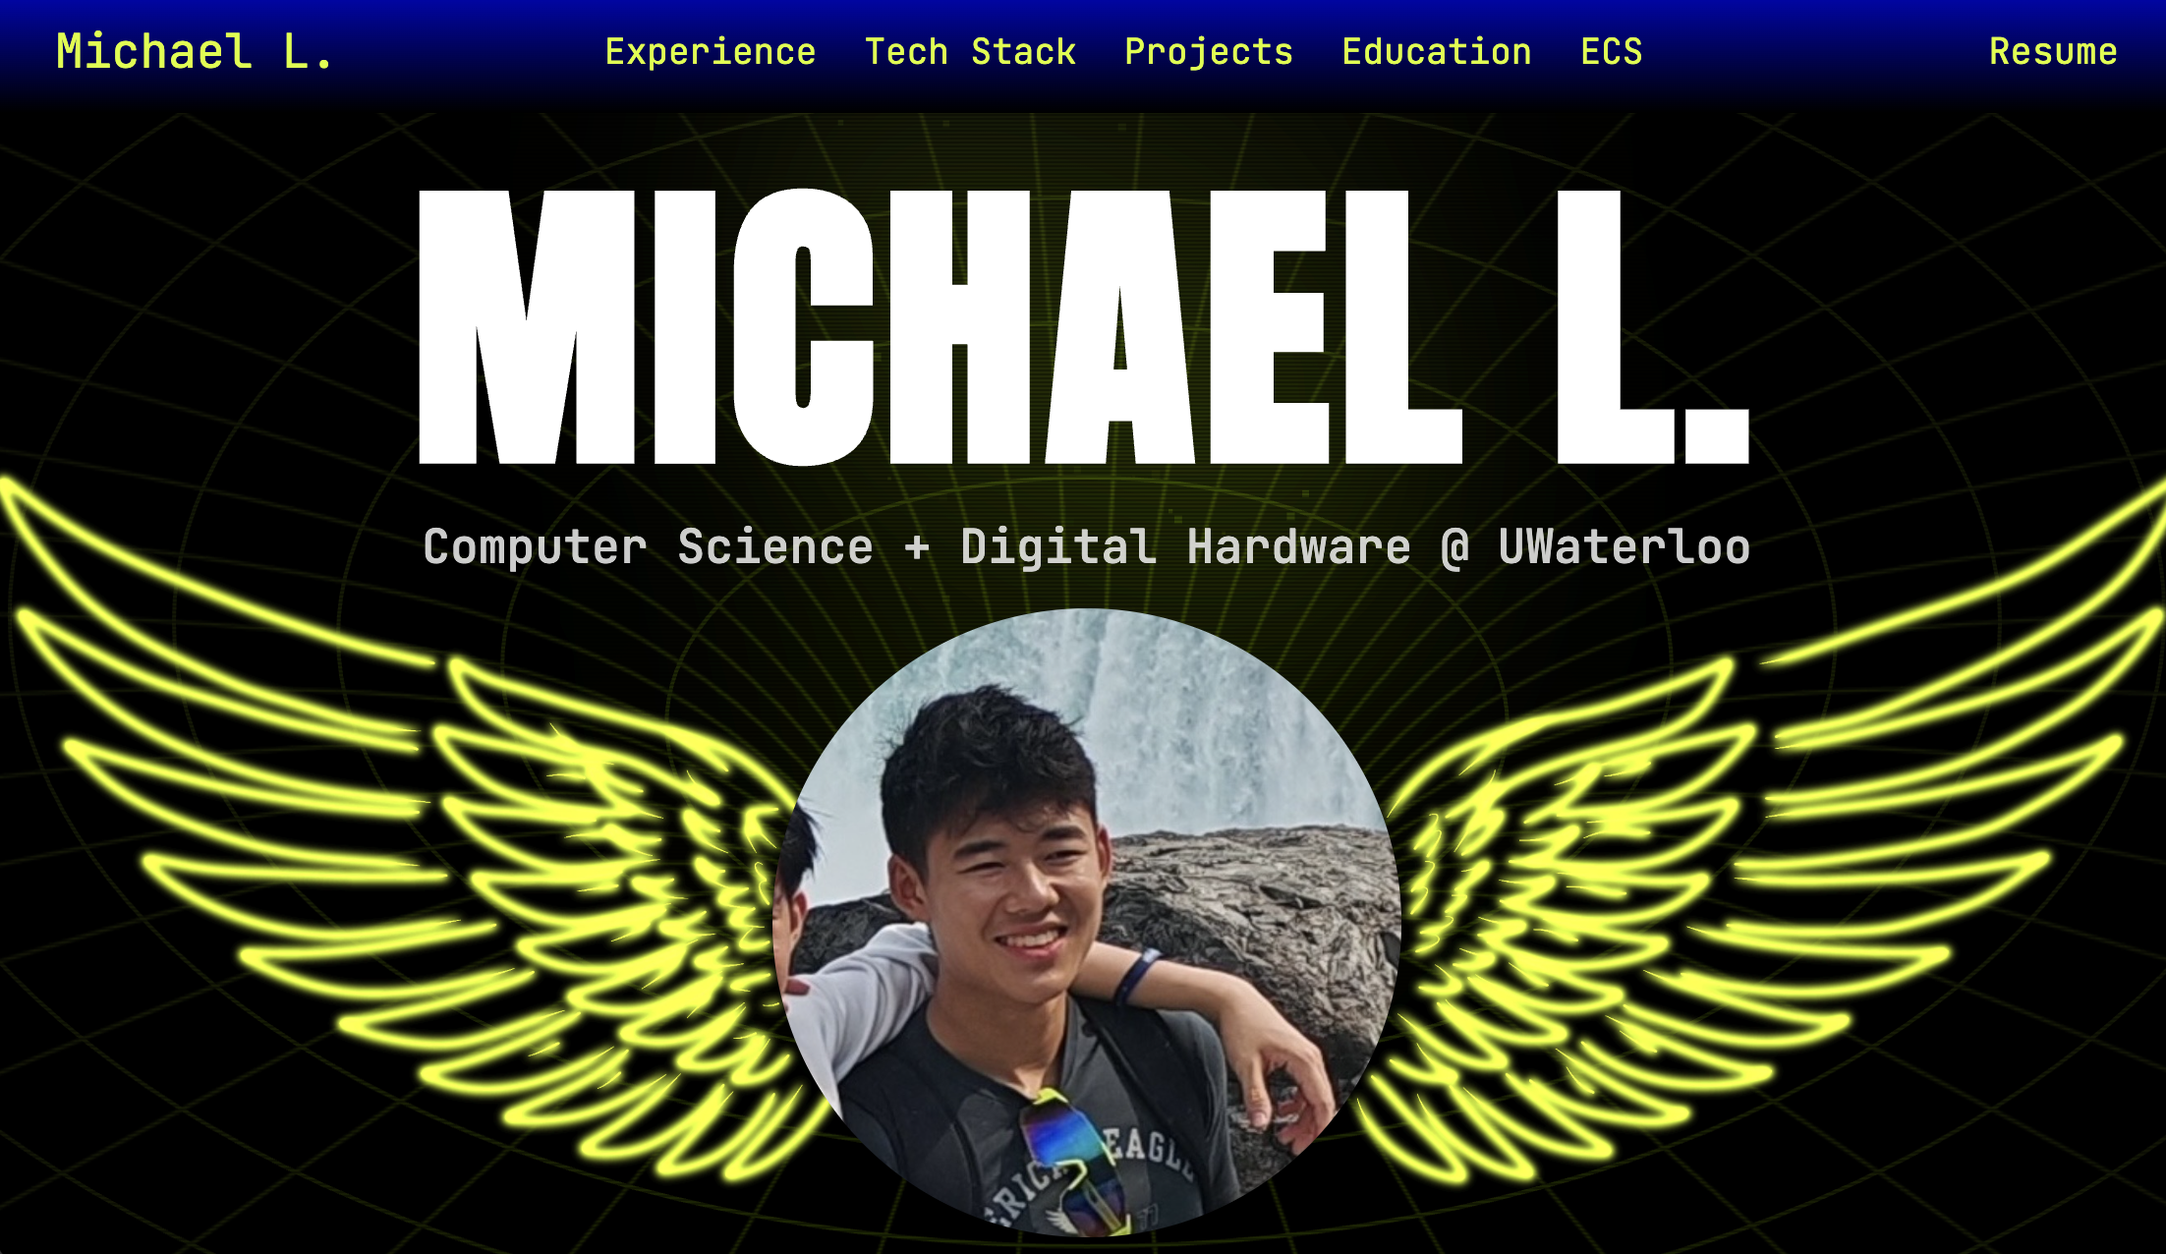
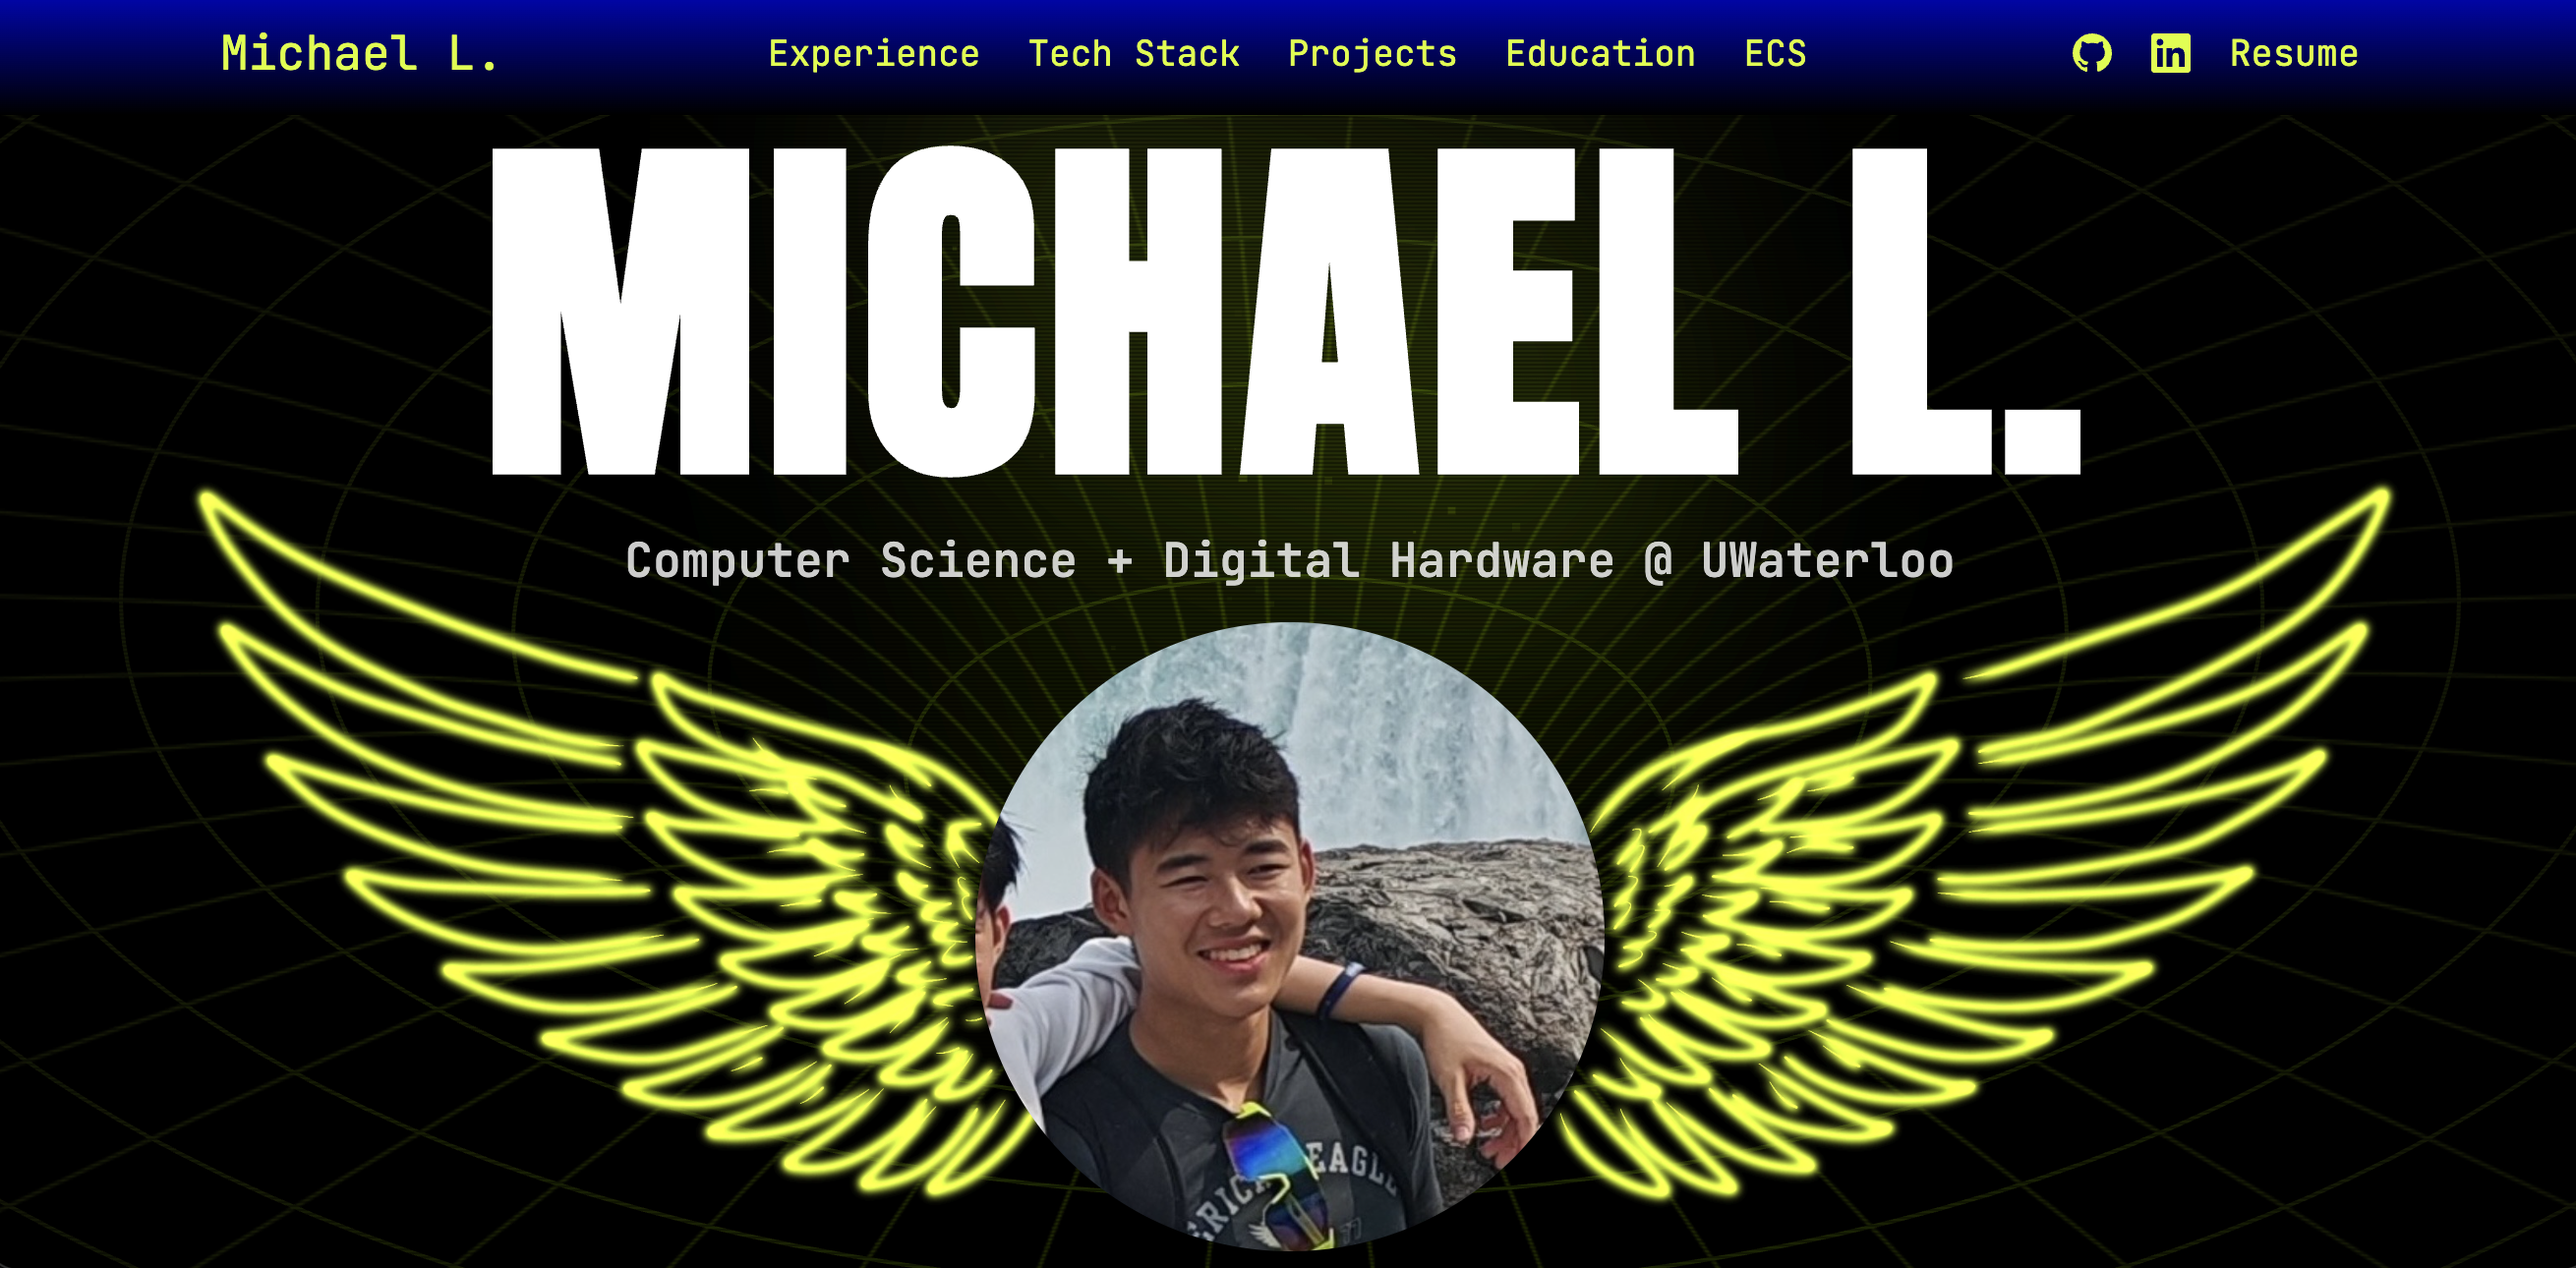
Fixed social link error

diff --git a/frontend/src/sections/NavBar.tsx b/frontend/src/sections/NavBar.tsx
@@ -30,7 +30,7 @@ export default function NavBar() {
             rel="noopener noreferrer"
             className="nav-social-link"
           >
-            <svg className="w-5 h-5" viewBox="0 0 24 24" fill="currentColor">
+            <svg className="nav-social-icon" viewBox="0 0 24 24" fill="currentColor">
                 <path d="M12 0C5.37 0 0 5.37 0 12c0 5.31 3.435 9.795 8.205 11.385.6.105.825-.255.825-.57 0-.285-.015-1.23-.015-2.235-3.015.555-3.795-.735-4.035-1.41-.135-.345-.72-1.41-1.23-1.695-.42-.225-1.02-.78-.015-.795.945-.015 1.62.87 1.845 1.23 1.08 1.815 2.805 1.305 3.495.99.105-.78.42-1.305.765-1.605-2.67-.3-5.46-1.335-5.46-5.925 0-1.305.465-2.385 1.23-3.225-.12-.3-.54-1.53.12-3.18 0 0 1.005-.315 3.3 1.23.96-.27 1.98-.405 3-.405s2.04.135 3 .405c2.295-1.56 3.3-1.23 3.3-1.23.66 1.65.24 2.88.12 3.18.765.84 1.23 1.905 1.23 3.225 0 4.605-2.805 5.625-5.475 5.925.435.375.81 1.095.81 2.22 0 1.605-.015 2.895-.015 3.3 0 .315.225.69.825.57A12.02 12.02 0 0024 12c0-6.63-5.37-12-12-12z"/>
             </svg>
           </a>
@@ -41,7 +41,7 @@ export default function NavBar() {
             rel="noopener noreferrer"
             className="nav-social-link"
           >
-            <svg className="w-5 h-5" viewBox="0 0 24 24" fill="currentColor">
+            <svg className="nav-social-icon" viewBox="0 0 24 24" fill="currentColor">
                 <path d="M20.447 20.452h-3.554v-5.569c0-1.328-.027-3.037-1.852-3.037-1.853 0-2.136 1.445-2.136 2.939v5.667H9.351V9h3.414v1.561h.046c.477-.9 1.637-1.85 3.37-1.85 3.601 0 4.267 2.37 4.267 5.455v6.286zM5.337 7.433a2.062 2.062 0 01-2.063-2.065 2.064 2.064 0 112.063 2.065zm1.782 13.019H3.555V9h3.564v11.452zM22.225 0H1.771C.792 0 0 .774 0 1.729v20.542C0 23.227.792 24 1.771 24h20.451C23.2 24 24 23.227 24 22.271V1.729C24 .774 23.2 0 22.222 0h.003z"/>
             </svg>
           </a>
